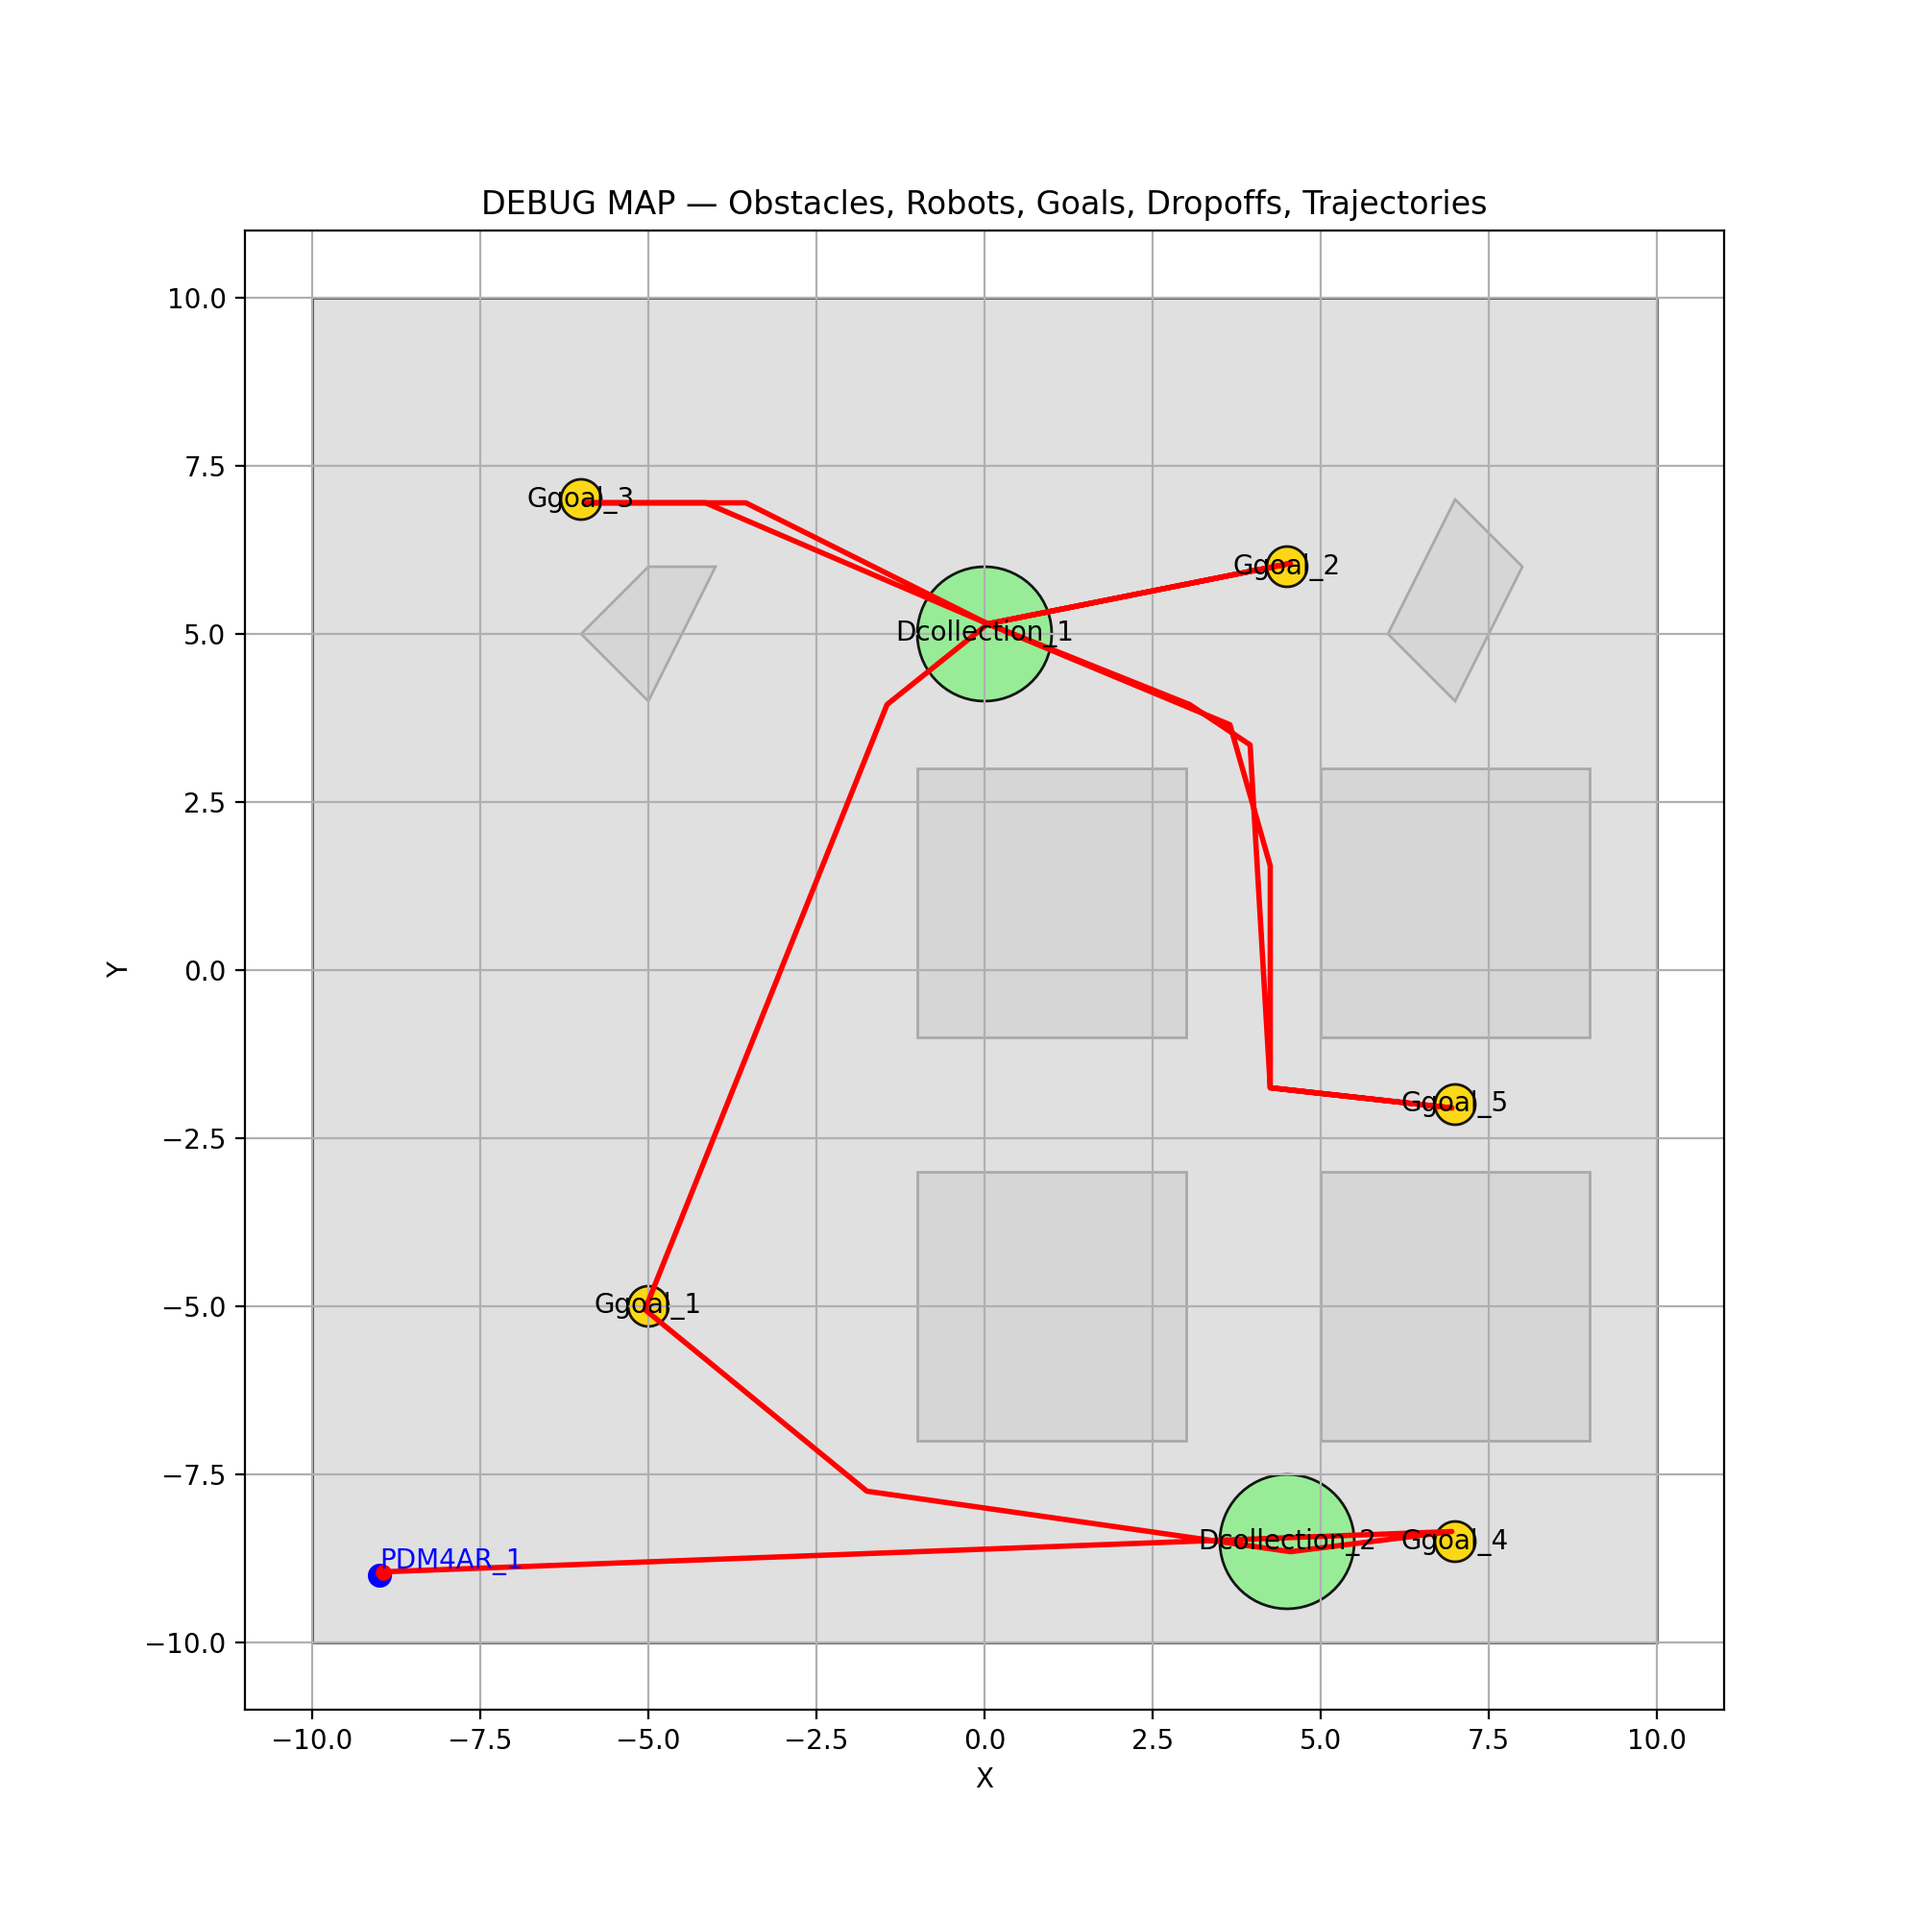
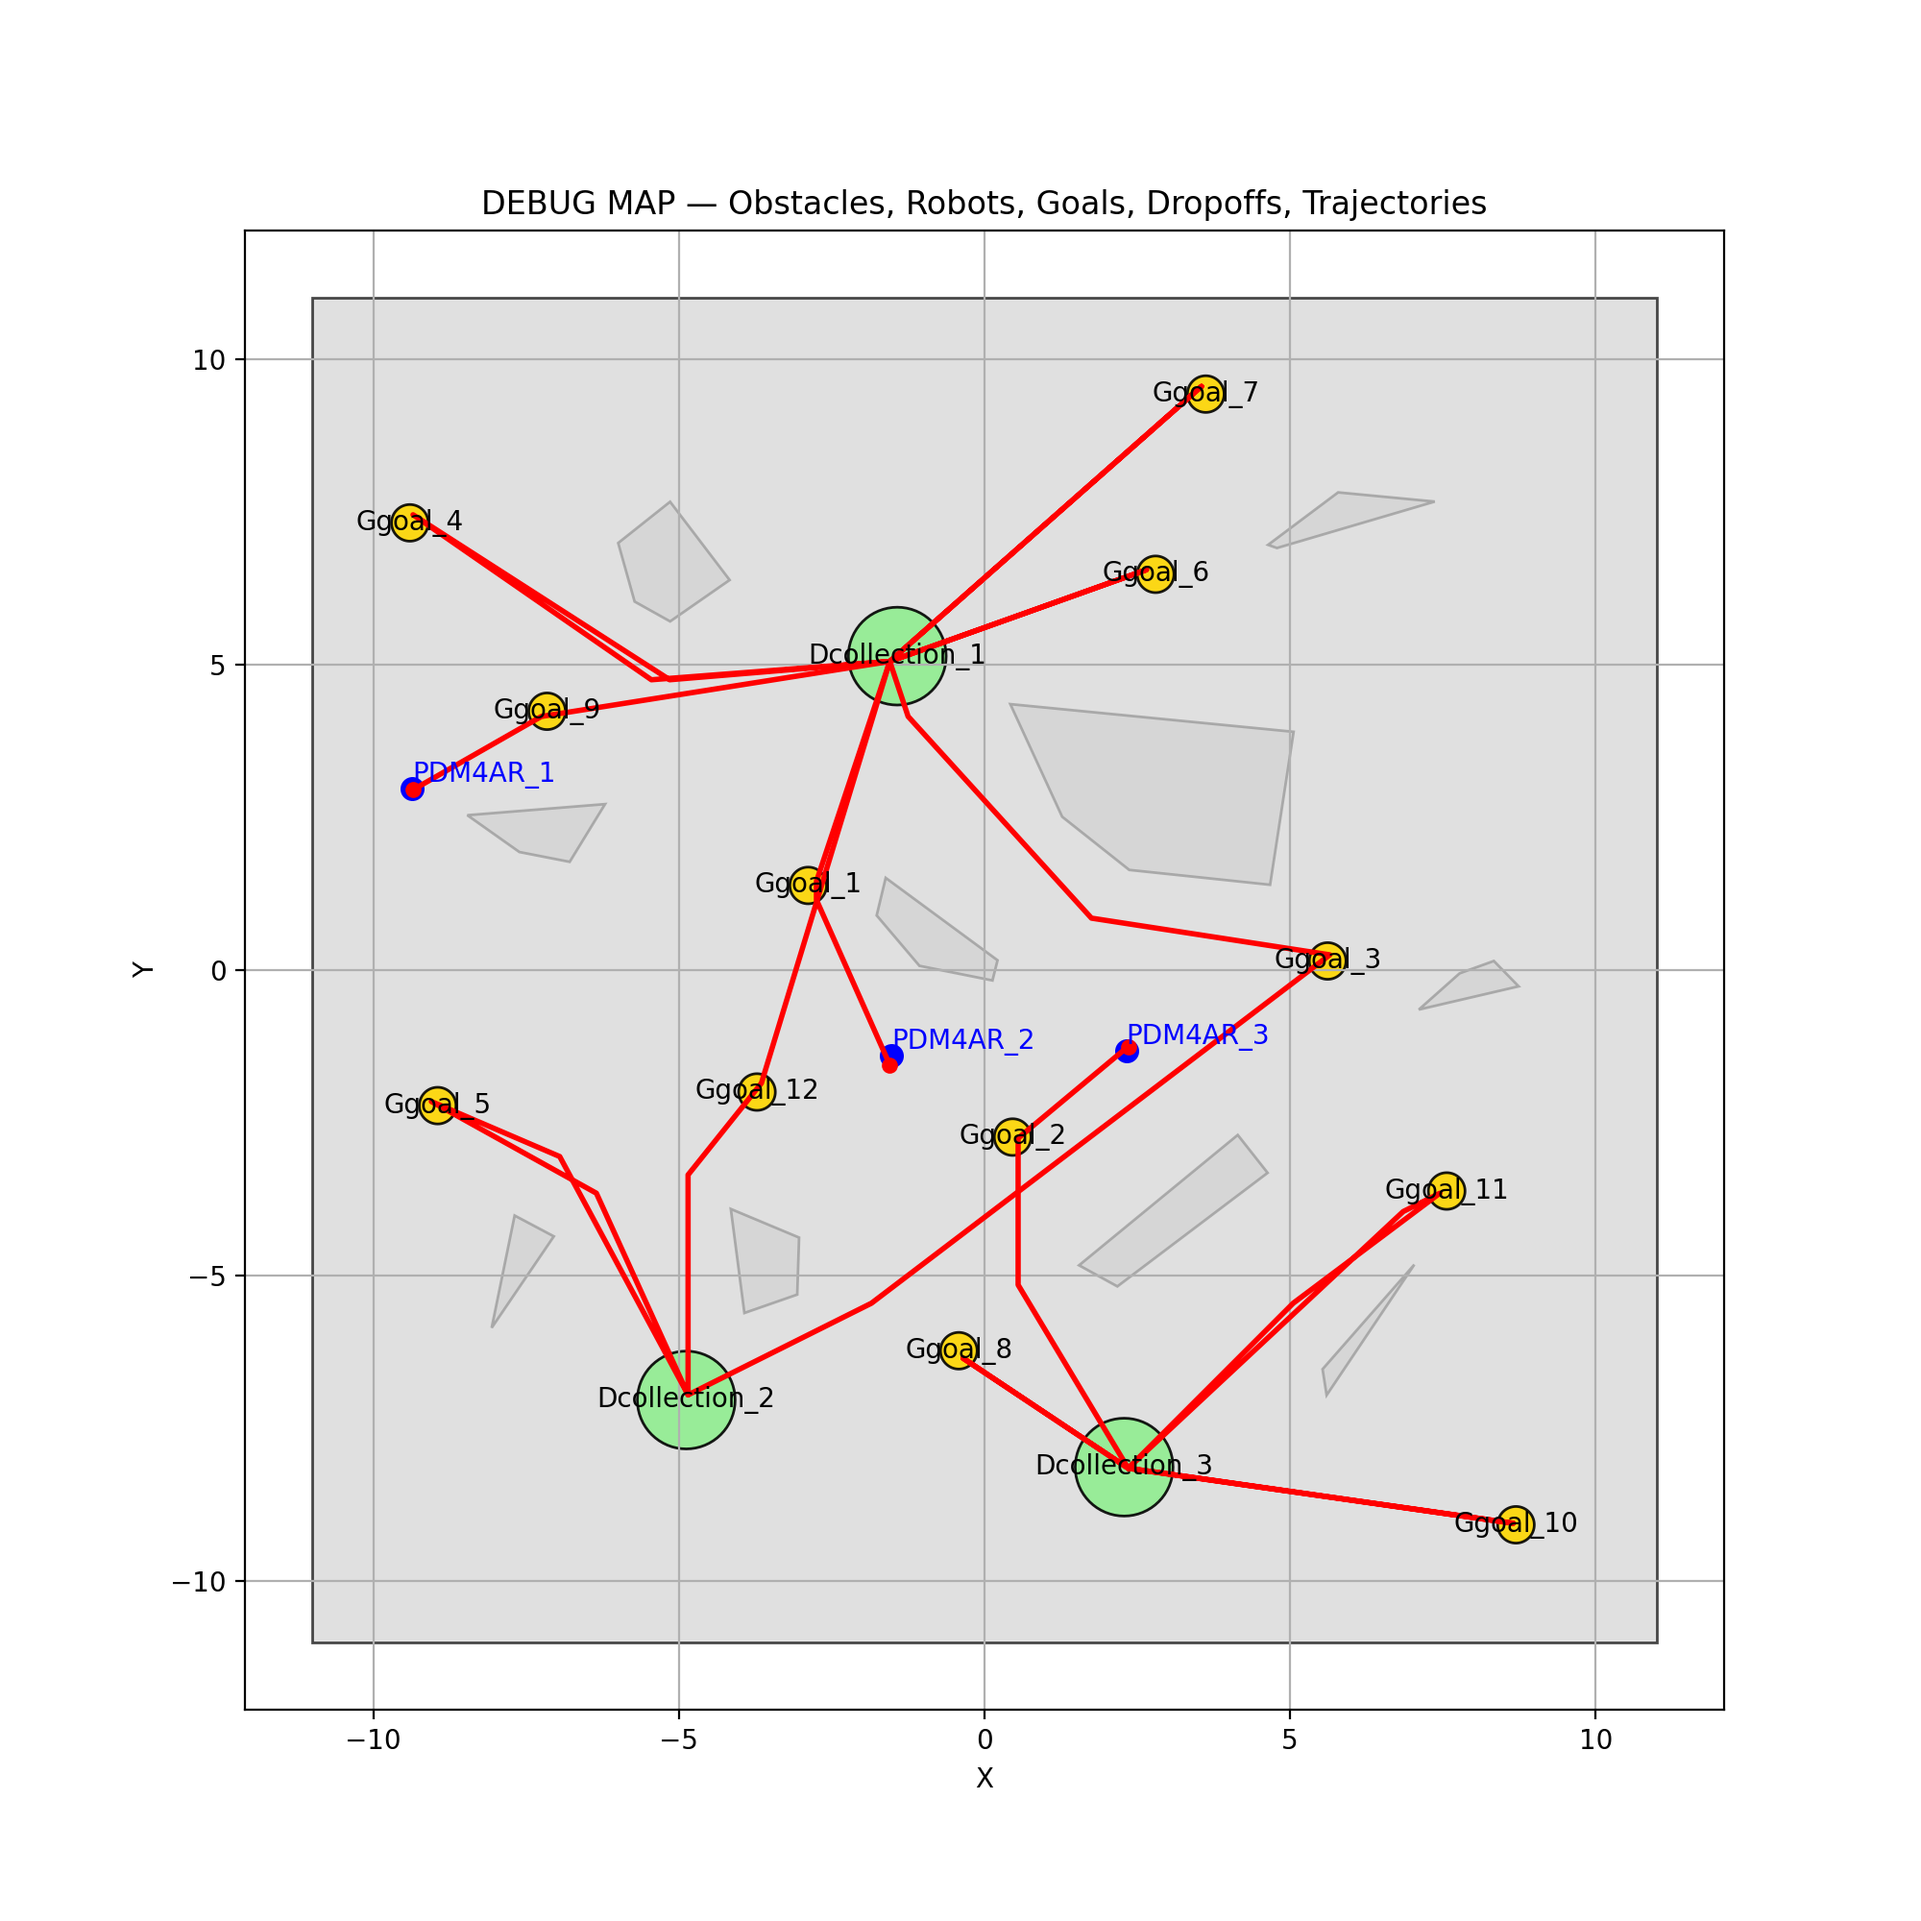
Changed the path cost so that it takes world coordinates and added some more comments

diff --git a/src/pdm4ar/exercises/ex14/agent.py b/src/pdm4ar/exercises/ex14/agent.py
@@ -464,18 +464,13 @@ class Pdm4arGlobalPlanner(GlobalPlanner):
         total= 0.0
 
         for (i1, j1), (i2, j2) in zip(path[:-1], path[1:]):
-            di = abs(i2 - i1)
-            dj = abs(j2 - j1)
-
-            if di == 1 and dj == 1:
-                total += math.sqrt(2)
-            else:
-                total += 1.0
+            x1, y1 = self.grid_to_world(i1, j1)
+            x2, y2 = self.grid_to_world(i2, j2)
+            total += math.sqrt((x2 - x1)**2 + (y2 - y1)**2)
         return total
 
     def send_plan(self, init_sim_obs: InitSimGlobalObservations) -> str:
-        # TO DO: implement here your global planning stack.
-        # create a grid representing the world.
+        ### STEP 1: create a grid representing the world.
         self.get_occupancy_grid(init_sim_obs)
 
         # extract robots, goals and dropoff points
@@ -527,7 +522,7 @@ class Pdm4arGlobalPlanner(GlobalPlanner):
         else:
             print("ERROR: No dropoff points found")
 
-        # precompute goal to nearest drop off
+        ### STEP 2: precompute goal to nearest drop off
         goal_drop_cost = {}
         goal_drop_path = {}
 
@@ -549,13 +544,17 @@ class Pdm4arGlobalPlanner(GlobalPlanner):
                 goal_drop_cost[gid] = float("inf")
                 goal_drop_path[gid] = None
         
-        # build cost matrix for robots to goals
+        # STEP 3: assign to each robot one goal
+        # first compute the distances for every robot to each goal, 
+        # to do this a cost matrix for robots to goals is built, 
+        # this cost matrix is later used for a linear sum optimizer
         robots_sorted = sorted(robot_grid.keys())
         goals_sorted = sorted(goal_grid.keys())
         num_r = len(robots_sorted)
         num_g = len(goals_sorted)
 
         cost_matrix = np.full((num_r, num_g), np.inf)
+        # paths from robot to goal
         paths_rg = {}
 
         for i, r in enumerate(robots_sorted):
@@ -570,6 +569,11 @@ class Pdm4arGlobalPlanner(GlobalPlanner):
 
                 cost_matrix[i, j] = self.path_cost(path_rg) + goal_drop_cost[g]
                 paths_rg[(r, g)] = path_rg
+
+        if True:
+            print("Robots:", robots_sorted)
+            print("Goals:", goals_sorted)
+            print("Cost matrix:\n", cost_matrix)
 
         # use optimizer for first assignment
         row_ind, col_ind = linear_sum_assignment(cost_matrix)
@@ -603,7 +607,7 @@ class Pdm4arGlobalPlanner(GlobalPlanner):
             robot_finish_time[r] = cost_matrix[i, j]
             assignments[r].append(g)
 
-        # remaining goals
+        ### STEP 4: assign the remaining goals to robots
         remaining_goals = [g for g in goals_sorted if g not in assigned_goals]
 
         while remaining_goals:
@@ -651,7 +655,7 @@ class Pdm4arGlobalPlanner(GlobalPlanner):
             # update robot finish time
             robot_finish_time[r] += best_cost
         
-        # convert grid paths to world trajectories
+        ### STEP 5: convert grid paths to world trajectories
         trajectories = {}
         for r in robots_sorted:
             cells = robot_paths[r]
@@ -662,10 +666,13 @@ class Pdm4arGlobalPlanner(GlobalPlanner):
             trajectories = trajectories
         )
 
+
+
+        ### plot the trajectories
         DEBUG = True
         if DEBUG:
             import matplotlib.pyplot as plt
-    
+
             print("\nDEBUG: Generating debug_map.png\n")
 
             plt.figure(figsize=(10, 10))

diff --git a/src/pdm4ar/exercises_def/ex14/ex14.py b/src/pdm4ar/exercises_def/ex14/ex14.py
@@ -62,7 +62,7 @@ def _ex14_vis(sim_context: SimContext) -> Report:
 def get_exercise14():
     config_dir = Path(__file__).parent
     # config_files = ["config_1.yaml", "config_2.yaml", "config_3.yaml"]
-    config_files = ["config_1.yaml"]
+    config_files = ["config_3.yaml"]
     test_values: List[Mapping[str, Any]] = [load_config(str(config_dir / config_file)) for config_file in config_files]
 
     return Exercise[SimContext, None](
